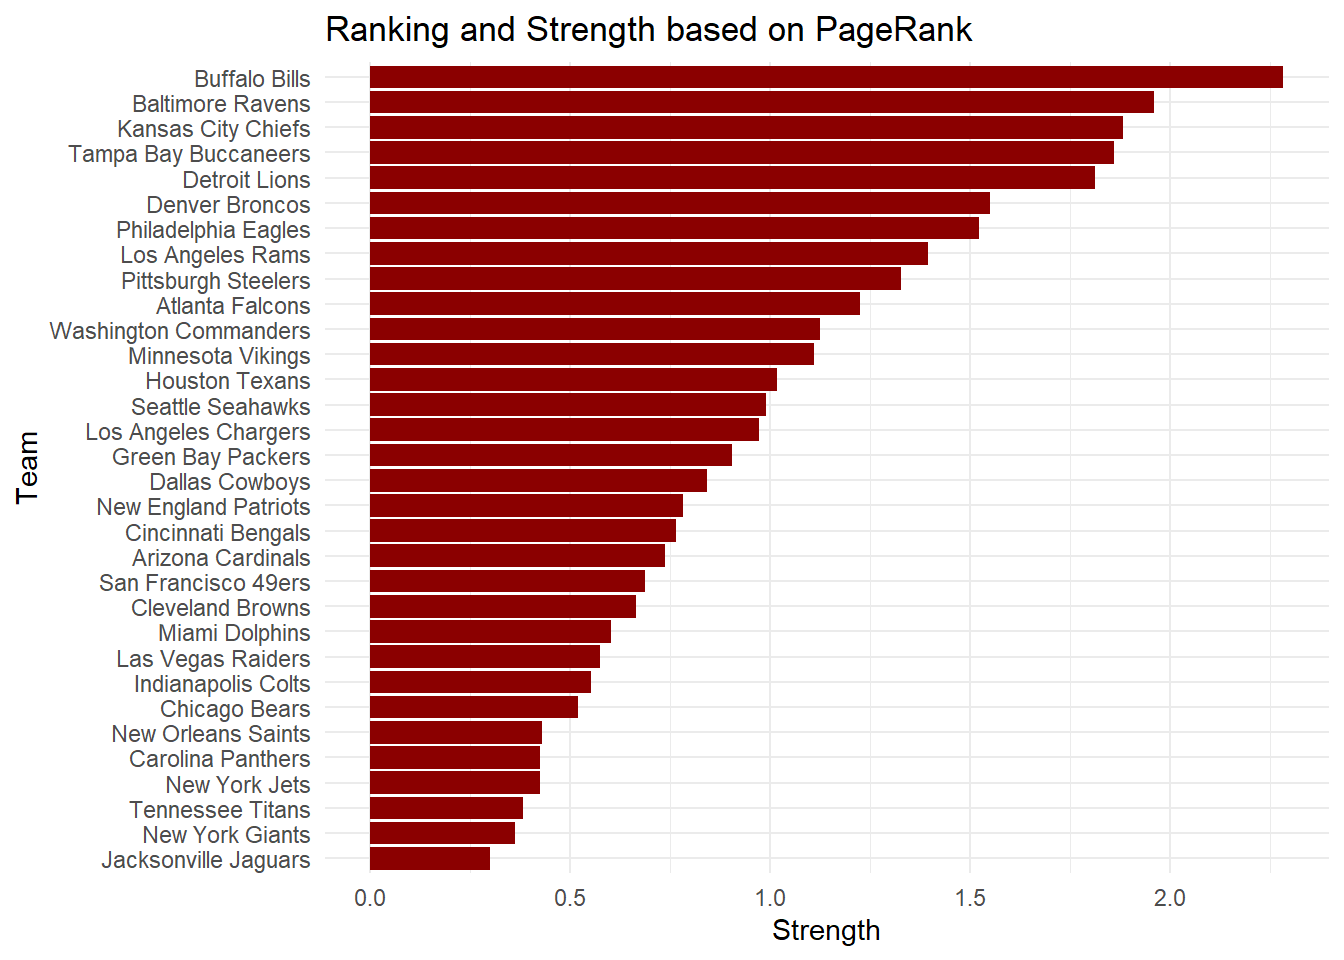
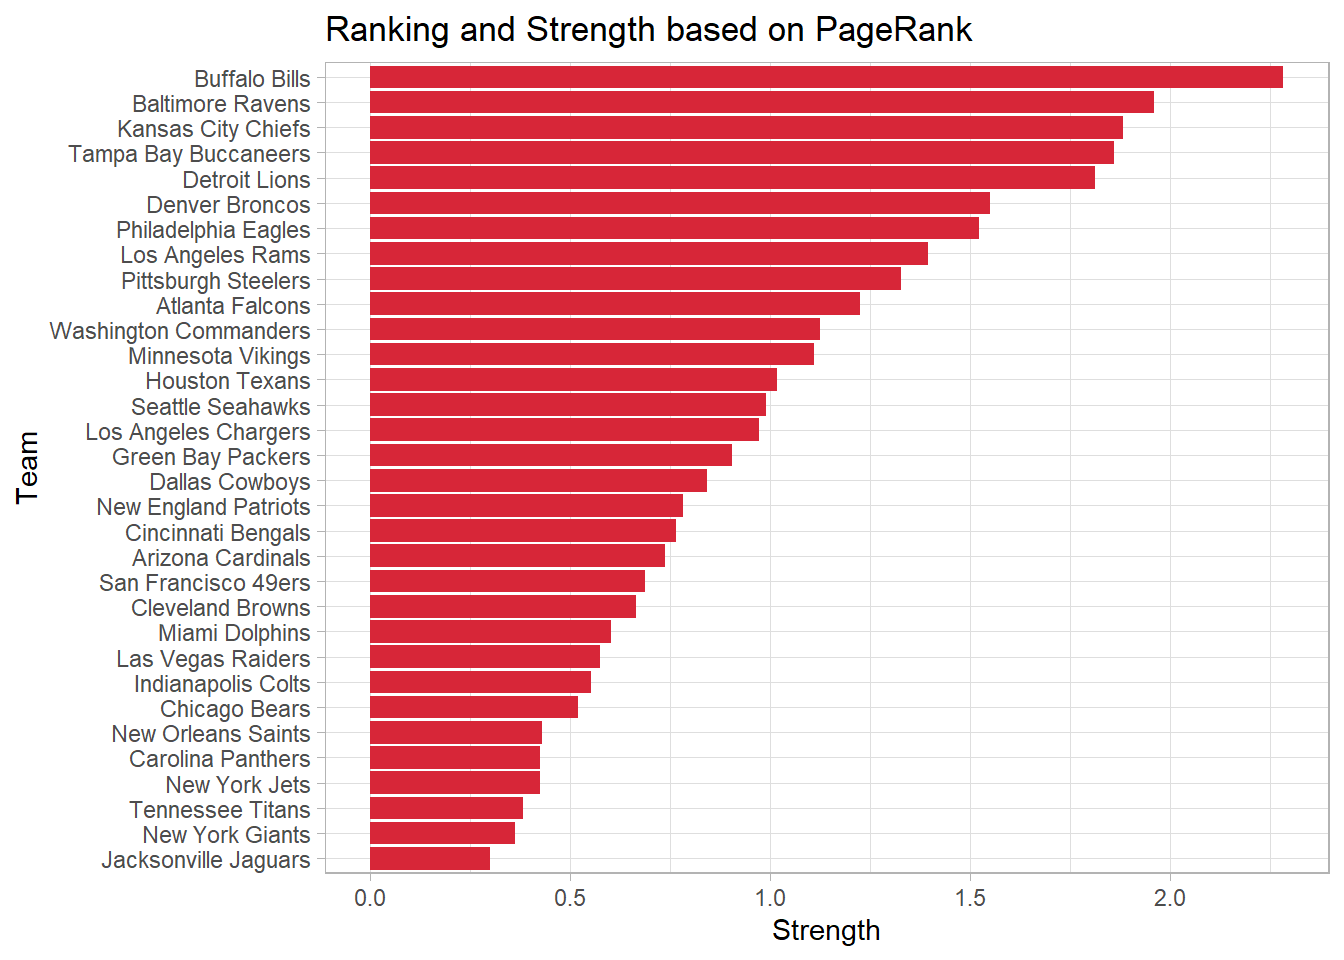
close to final ranking

Changed region(s): [[0.25, 0.0625, 0.9688, 0.9062]]

diff --git a/docs/blog/LearningToRank/LearningToRank.html b/docs/blog/LearningToRank/LearningToRank.html
@@ -215,9 +215,7 @@ window.Quarto = {
   <li><a href="#approach-1" id="toc-approach-1" class="nav-link" data-scroll-target="#approach-1">Approach</a></li>
   <li><a href="#implementation-1" id="toc-implementation-1" class="nav-link" data-scroll-target="#implementation-1">Implementation</a></li>
   </ul></li>
-  <li><a href="#wichtig-spaltennamen-in-dieser-pagerank_compare-tabelle-fixen" id="toc-wichtig-spaltennamen-in-dieser-pagerank_compare-tabelle-fixen" class="nav-link" data-scroll-target="#wichtig-spaltennamen-in-dieser-pagerank_compare-tabelle-fixen">WICHTIG: spaltennamen in dieser pagerank_compare tabelle fixen</a></li>
   <li><a href="#comparison" id="toc-comparison" class="nav-link" data-scroll-target="#comparison">Comparison</a></li>
-  <li><a href="#to-do" id="toc-to-do" class="nav-link" data-scroll-target="#to-do">TO DO</a></li>
   <li><a href="#conclusion" id="toc-conclusion" class="nav-link" data-scroll-target="#conclusion">Conclusion</a></li>
   </ul>
 </nav>
@@ -406,7 +404,7 @@ Carolina Panthers     Chicago Bears
 <span id="cb7-11"><a href="#cb7-11" aria-hidden="true" tabindex="-1"></a>  <span class="fu">labs</span>(<span class="at">title=</span><span class="st">"Ranking and Strength based on Bradley-Terry"</span>,</span>
 <span id="cb7-12"><a href="#cb7-12" aria-hidden="true" tabindex="-1"></a>       <span class="at">y=</span><span class="st">"Strength"</span>,</span>
 <span id="cb7-13"><a href="#cb7-13" aria-hidden="true" tabindex="-1"></a>       <span class="at">x=</span><span class="st">"Team"</span>) <span class="sc">+</span></span>
-<span id="cb7-14"><a href="#cb7-14" aria-hidden="true" tabindex="-1"></a>  <span class="fu">theme_minimal</span>()</span></code></pre></div><button title="Copy to Clipboard" class="code-copy-button"><i class="bi"></i></button></div>
+<span id="cb7-14"><a href="#cb7-14" aria-hidden="true" tabindex="-1"></a>  <span class="fu">theme_light</span>()</span></code></pre></div><button title="Copy to Clipboard" class="code-copy-button"><i class="bi"></i></button></div>
 </details>
 <div class="cell-output-display">
 <div>
@@ -494,7 +492,7 @@ Chicago Bears       0.4153262       -0.9715400       -0.9715400</code></pre>
 <p>PageRank does not treat all of the opponents of a given team equally. In fact, it accounts for both, the strength of the opponents as well as their total number of games lost. Opponents with higher strength get more weight, while opponents with a higher total number of games lost get a less weight.</p>
 <p>Based on this mechanism, the strength of team <span class="math inline">\(i\)</span> according to PageRank, <span class="math inline">\(p_i\)</span>, is recursively defined as: <span class="math display">\[ p_i = (1-d) + d \sum_{j=1}^n \left( \frac{w_{ij}}{c_j} \right) p_j \]</span> As before, <span class="math inline">\(w_{ij}\)</span> is the number of times team <span class="math inline">\(i\)</span> won against team <span class="math inline">\(j\)</span>. <span class="math inline">\(c_j = \sum_{i=1}^n w_{ij}\)</span> is the total numer of games lost by team <span class="math inline">\(j\)</span>. The term inside the sum works according to the above described mechanism: Wins against an opponent <span class="math inline">\(j\)</span> with high strength (i.e.&nbsp;high <span class="math inline">\(p_j\)</span>) get more weight, while wins against an opponent with a high number of total games lost (i.e.&nbsp;high <span class="math inline">\(c_j\)</span>) get less weight. This is then summed up across all opponents and weighted by the damping factor <span class="math inline">\(d \in [0,1)\)</span> (usually, <span class="math inline">\(d\)</span> is set to 0.85). <span class="math inline">\(d\)</span> guarantees the existence of (finite) soultions even if there is a team that always won or always lost.</p>
 <p>The above can be written in matrix-vector notation as follows: <span class="math display">\[ \textbf{p} = (1-d) \, \textbf{e} + d \, \textbf{W} \,\textbf{D}_c^{-1} \, \textbf{p} \]</span> where <span class="math inline">\(\textbf{p}=[p_1, \dots, p_n]^T\)</span> is the PageRank strength vector and <span class="math inline">\(\textbf{e}\)</span> is an <span class="math inline">\(n\)</span>-dimensional vector of ones. <span class="math inline">\(\textbf{D}=\text{diag}(c_1, \dots, c_n)\)</span> is a diagonal matrix and <span class="math inline">\(\textbf{W}\)</span> is the win matrix introduced above.</p>
-<p>To get a unique solution, PageRank requires the strength vector <span class="math inline">\(\textbf{p}\)</span> to sum up to <span class="math inline">\(n\)</span>, i.e.&nbsp;<span class="math inline">\(\textbf{e}^T \, \textbf{p} = n\)</span>. Using this, the following holds: <span class="math display">\[ \textbf{e} = \frac{\textbf{e} \, \textbf{e}^T \, \textbf{p}}{n}\]</span> Plugging this into the recursive formula for <span class="math inline">\(\textbf{p}\)</span> and factoring out <span class="math inline">\(\textbf{p}\)</span> on the right hand side yields: <span class="math display">\[ \begin{align}
+<p>To get a unique solution, PageRank requires a restriction on the scale of the strength vector. Therefore, the restriction that <span class="math inline">\(\textbf{p}\)</span> must to sum up to <span class="math inline">\(n\)</span>, i.e.&nbsp;<span class="math inline">\(\textbf{e}^T \, \textbf{p} = n\)</span>, is introduced. This is the same as saying that the average strength is 1. Using this, the following holds: <span class="math display">\[ \textbf{e} = \frac{\textbf{e} \, \textbf{e}^T \, \textbf{p}}{n}\]</span> Plugging this into the recursive formula for <span class="math inline">\(\textbf{p}\)</span> and factoring out <span class="math inline">\(\textbf{p}\)</span> on the right hand side yields: <span class="math display">\[ \begin{align}
 \textbf{p} &amp;= \left[ (1-d) \, \textbf{e} \, \textbf{e}^T/n + d \, \textbf{W} \,\textbf{D}_c^{-1} \right] \textbf{p} \\
 &amp;= \mathbf{A} \, \mathbf{p}
 \end{align}\]</span></p>
@@ -552,12 +550,12 @@ Chicago Bears     0.5206048</code></pre>
 <span id="cb17-4"><a href="#cb17-4" aria-hidden="true" tabindex="-1"></a>)</span>
 <span id="cb17-5"><a href="#cb17-5" aria-hidden="true" tabindex="-1"></a></span>
 <span id="cb17-6"><a href="#cb17-6" aria-hidden="true" tabindex="-1"></a><span class="fu">ggplot</span>(df, <span class="fu">aes</span>(<span class="fu">reorder</span>(team, score), <span class="at">y=</span>score)) <span class="sc">+</span></span>
-<span id="cb17-7"><a href="#cb17-7" aria-hidden="true" tabindex="-1"></a>  <span class="fu">geom_col</span>(<span class="at">fill=</span><span class="st">"#8b0000"</span>) <span class="sc">+</span></span>
+<span id="cb17-7"><a href="#cb17-7" aria-hidden="true" tabindex="-1"></a>  <span class="fu">geom_col</span>(<span class="at">fill=</span><span class="st">"#d72638"</span>) <span class="sc">+</span></span>
 <span id="cb17-8"><a href="#cb17-8" aria-hidden="true" tabindex="-1"></a>  <span class="fu">coord_flip</span>() <span class="sc">+</span></span>
 <span id="cb17-9"><a href="#cb17-9" aria-hidden="true" tabindex="-1"></a>  <span class="fu">labs</span>(<span class="at">title=</span><span class="st">"Ranking and Strength based on PageRank"</span>,</span>
 <span id="cb17-10"><a href="#cb17-10" aria-hidden="true" tabindex="-1"></a>       <span class="at">y=</span><span class="st">"Strength"</span>,</span>
 <span id="cb17-11"><a href="#cb17-11" aria-hidden="true" tabindex="-1"></a>       <span class="at">x=</span><span class="st">"Team"</span>) <span class="sc">+</span></span>
-<span id="cb17-12"><a href="#cb17-12" aria-hidden="true" tabindex="-1"></a>  <span class="fu">theme_minimal</span>()</span></code></pre></div><button title="Copy to Clipboard" class="code-copy-button"><i class="bi"></i></button></div>
+<span id="cb17-12"><a href="#cb17-12" aria-hidden="true" tabindex="-1"></a>  <span class="fu">theme_light</span>()</span></code></pre></div><button title="Copy to Clipboard" class="code-copy-button"><i class="bi"></i></button></div>
 </details>
 <div class="cell-output-display">
 <div>
@@ -588,28 +586,112 @@ Carolina Panthers 0.4254393           0.01329498 32
 Chicago Bears     0.5206048           0.01626890 32</code></pre>
 </div>
 </div>
+<p>Obviously, my values and the values returned by the <strong>igraph</strong> package are not the same. However, when dividing them by each other it becomes apparent that my values are just 32 times the values returned by the package. The reason for the difference in scale is the following: The <strong>igraph</strong> package uses as restriction on the strength vector that it sums up to 1. However, I use as restriction that the strength vector sums up to <span class="math inline">\(n=32\)</span>. Importantly, this difference in scaling has no influence on the rankings.</p>
 </section>
-</section>
-<section id="wichtig-spaltennamen-in-dieser-pagerank_compare-tabelle-fixen" class="level1">
-<h1>WICHTIG: spaltennamen in dieser pagerank_compare tabelle fixen</h1>
-<p>WICHTIG: bei meiner Implementation wollen wir einen AVERAGE pagerank value of 1 also SUM UP to n; in PACKAGE WOLLEN SIE SUM UP to 1; also müssen wir meine werte mit 1/n multiplizieren oder die anderen mit n.</p>
 </section>
 <section id="comparison" class="level1">
 <h1>Comparison</h1>
-<p>pagerank gleichmäßiger verteilt; BTM exponential dispersed beide in gleiche horizontal barplot</p>
-<p>evtl scatter plots beider ratings und rankings: plot(log(bt_mle), pagerank)</p>
-<ol start="2" type="1">
-<li>plots zum vergleich der beiden rankings (u.a. plot(log(bt_mle), r))</li>
-</ol>
-</section>
-<section id="to-do" class="level1">
-<h1>TO DO</h1>
-<ol type="1">
-<li>2mal metric für vergleich meine lösung vs.&nbsp;package</li>
-</ol>
+<p>Having in detail covered each of the two approaches separately, let’s now compare their results.</p>
+<div class="cell">
+<details class="code-fold">
+<summary>Show code</summary>
+<div class="code-copy-outer-scaffold"><div class="sourceCode cell-code" id="cb20"><pre class="sourceCode r code-with-copy"><code class="sourceCode r"><span id="cb20-1"><a href="#cb20-1" aria-hidden="true" tabindex="-1"></a>df <span class="ot">&lt;-</span> <span class="fu">data.frame</span>(</span>
+<span id="cb20-2"><a href="#cb20-2" aria-hidden="true" tabindex="-1"></a>  <span class="at">team =</span> <span class="fu">names</span>(my_btm_mles),</span>
+<span id="cb20-3"><a href="#cb20-3" aria-hidden="true" tabindex="-1"></a>  <span class="at">btm =</span> <span class="fu">as.numeric</span>(my_btm_mles),</span>
+<span id="cb20-4"><a href="#cb20-4" aria-hidden="true" tabindex="-1"></a>  <span class="at">pagerank =</span> <span class="fu">as.numeric</span>(my_pagerank_est)</span>
+<span id="cb20-5"><a href="#cb20-5" aria-hidden="true" tabindex="-1"></a>)</span>
+<span id="cb20-6"><a href="#cb20-6" aria-hidden="true" tabindex="-1"></a></span>
+<span id="cb20-7"><a href="#cb20-7" aria-hidden="true" tabindex="-1"></a>df<span class="sc">$</span>team <span class="ot">&lt;-</span> <span class="fu">factor</span>(df<span class="sc">$</span>team, <span class="at">levels=</span>df<span class="sc">$</span>team[<span class="fu">order</span>(df<span class="sc">$</span>btm, <span class="at">decreasing=</span><span class="cn">FALSE</span>)])</span>
+<span id="cb20-8"><a href="#cb20-8" aria-hidden="true" tabindex="-1"></a></span>
+<span id="cb20-9"><a href="#cb20-9" aria-hidden="true" tabindex="-1"></a></span>
+<span id="cb20-10"><a href="#cb20-10" aria-hidden="true" tabindex="-1"></a>df_long <span class="ot">&lt;-</span> <span class="fu">reshape</span>(df,</span>
+<span id="cb20-11"><a href="#cb20-11" aria-hidden="true" tabindex="-1"></a>                   <span class="at">varying =</span> <span class="fu">list</span>(<span class="fu">c</span>(<span class="st">"btm"</span>, <span class="st">"pagerank"</span>)),</span>
+<span id="cb20-12"><a href="#cb20-12" aria-hidden="true" tabindex="-1"></a>                   <span class="at">v.names =</span> <span class="st">"score"</span>,</span>
+<span id="cb20-13"><a href="#cb20-13" aria-hidden="true" tabindex="-1"></a>                   <span class="at">timevar =</span> <span class="st">"scoretype"</span>,</span>
+<span id="cb20-14"><a href="#cb20-14" aria-hidden="true" tabindex="-1"></a>                   <span class="at">times =</span> <span class="fu">c</span>(<span class="st">"btm"</span>, <span class="st">"pagerank"</span>),</span>
+<span id="cb20-15"><a href="#cb20-15" aria-hidden="true" tabindex="-1"></a>                   <span class="at">direction =</span> <span class="st">"long"</span>)</span>
+<span id="cb20-16"><a href="#cb20-16" aria-hidden="true" tabindex="-1"></a></span>
+<span id="cb20-17"><a href="#cb20-17" aria-hidden="true" tabindex="-1"></a>df_long<span class="sc">$</span>team <span class="ot">&lt;-</span> <span class="fu">factor</span>(df_long<span class="sc">$</span>team, <span class="at">levels=</span><span class="fu">levels</span>(df<span class="sc">$</span>team))</span>
+<span id="cb20-18"><a href="#cb20-18" aria-hidden="true" tabindex="-1"></a></span>
+<span id="cb20-19"><a href="#cb20-19" aria-hidden="true" tabindex="-1"></a><span class="fu">ggplot</span>(df_long, <span class="fu">aes</span>(<span class="at">x=</span>team, <span class="at">y=</span>score, <span class="at">fill=</span>scoretype)) <span class="sc">+</span></span>
+<span id="cb20-20"><a href="#cb20-20" aria-hidden="true" tabindex="-1"></a>  <span class="fu">geom_bar</span>(<span class="at">stat=</span><span class="st">"identity"</span>, <span class="at">position=</span><span class="fu">position_dodge</span>(<span class="at">width =</span> <span class="fl">0.7</span>)) <span class="sc">+</span></span>
+<span id="cb20-21"><a href="#cb20-21" aria-hidden="true" tabindex="-1"></a>  <span class="fu">scale_fill_manual</span>(<span class="at">values=</span><span class="fu">c</span>(<span class="st">"btm"</span><span class="ot">=</span><span class="st">"#0b0b64"</span>, <span class="st">"pagerank"</span><span class="ot">=</span><span class="st">"#d72638"</span>),</span>
+<span id="cb20-22"><a href="#cb20-22" aria-hidden="true" tabindex="-1"></a>                    <span class="at">labels=</span><span class="fu">c</span>(<span class="st">"btm"</span><span class="ot">=</span><span class="st">"Bradley-Terry"</span>, <span class="st">"pagerank"</span><span class="ot">=</span><span class="st">"PageRank"</span>),</span>
+<span id="cb20-23"><a href="#cb20-23" aria-hidden="true" tabindex="-1"></a>                    <span class="at">name=</span><span class="st">"Approach"</span>) <span class="sc">+</span></span>
+<span id="cb20-24"><a href="#cb20-24" aria-hidden="true" tabindex="-1"></a>  <span class="fu">coord_flip</span>() <span class="sc">+</span></span>
+<span id="cb20-25"><a href="#cb20-25" aria-hidden="true" tabindex="-1"></a>  <span class="fu">labs</span>(<span class="at">title=</span><span class="st">"Strengths based on Bradley-Terry and PageRank"</span>,</span>
+<span id="cb20-26"><a href="#cb20-26" aria-hidden="true" tabindex="-1"></a>       <span class="at">y=</span><span class="st">"Strength"</span>,</span>
+<span id="cb20-27"><a href="#cb20-27" aria-hidden="true" tabindex="-1"></a>       <span class="at">x=</span><span class="st">"Team"</span>) <span class="sc">+</span></span>
+<span id="cb20-28"><a href="#cb20-28" aria-hidden="true" tabindex="-1"></a>  <span class="fu">theme_light</span>()</span></code></pre></div><button title="Copy to Clipboard" class="code-copy-button"><i class="bi"></i></button></div>
+</details>
+<div class="cell-output-display">
+<div>
+<figure class="figure">
+<p><img src="LearningToRank_files/figure-html/unnamed-chunk-13-1.png" class="img-fluid figure-img" width="672"></p>
+</figure>
+</div>
+</div>
+</div>
+<p>When looking at the above plot, two aspects are particularly striking. First, there is alot more dispersion among the Bradley-Terry strengths than among the PageRank strengths. Second, it seems that the ranking obtained from PageRank is not identical to the one returned by the Bradley-Terry model (Obviously, when the teams are sorted in descending order based on their Bradley-Terry strengths (as in the above plot) they are not at the same time also sorted in descending order based on the PageRank strengths).</p>
+<div class="cell">
+<details class="code-fold">
+<summary>Show code</summary>
+<div class="code-copy-outer-scaffold"><div class="sourceCode cell-code" id="cb21"><pre class="sourceCode r code-with-copy"><code class="sourceCode r"><span id="cb21-1"><a href="#cb21-1" aria-hidden="true" tabindex="-1"></a>p1 <span class="ot">&lt;-</span> <span class="fu">ggplot</span>(df, <span class="fu">aes</span>(<span class="at">x=</span>my_btm_mles, <span class="at">y=</span>my_pagerank_est)) <span class="sc">+</span></span>
+<span id="cb21-2"><a href="#cb21-2" aria-hidden="true" tabindex="-1"></a>  <span class="fu">geom_point</span>() <span class="sc">+</span></span>
+<span id="cb21-3"><a href="#cb21-3" aria-hidden="true" tabindex="-1"></a>  <span class="fu">coord_equal</span>() <span class="sc">+</span></span>
+<span id="cb21-4"><a href="#cb21-4" aria-hidden="true" tabindex="-1"></a>  <span class="fu">labs</span>(<span class="at">y=</span><span class="st">"PageRank Strength"</span>,</span>
+<span id="cb21-5"><a href="#cb21-5" aria-hidden="true" tabindex="-1"></a>       <span class="at">x=</span><span class="st">"Bradley-Terry Strength"</span>) <span class="sc">+</span></span>
+<span id="cb21-6"><a href="#cb21-6" aria-hidden="true" tabindex="-1"></a>  <span class="fu">theme_light</span>() <span class="sc">+</span></span>
+<span id="cb21-7"><a href="#cb21-7" aria-hidden="true" tabindex="-1"></a>  <span class="fu">theme</span>(<span class="at">aspect.ratio =</span> <span class="dv">1</span>)</span>
+<span id="cb21-8"><a href="#cb21-8" aria-hidden="true" tabindex="-1"></a></span>
+<span id="cb21-9"><a href="#cb21-9" aria-hidden="true" tabindex="-1"></a>p2 <span class="ot">&lt;-</span> <span class="fu">ggplot</span>(df, <span class="fu">aes</span>(<span class="at">x=</span><span class="fu">log</span>(my_btm_mles), <span class="at">y=</span>my_pagerank_est)) <span class="sc">+</span></span>
+<span id="cb21-10"><a href="#cb21-10" aria-hidden="true" tabindex="-1"></a>  <span class="fu">geom_point</span>() <span class="sc">+</span></span>
+<span id="cb21-11"><a href="#cb21-11" aria-hidden="true" tabindex="-1"></a>  <span class="fu">coord_equal</span>() <span class="sc">+</span></span>
+<span id="cb21-12"><a href="#cb21-12" aria-hidden="true" tabindex="-1"></a>  <span class="fu">labs</span>(<span class="at">y=</span><span class="st">"PageRank Strength"</span>,</span>
+<span id="cb21-13"><a href="#cb21-13" aria-hidden="true" tabindex="-1"></a>       <span class="at">x=</span><span class="st">"log(Bradley-Terry Strength)"</span>) <span class="sc">+</span></span>
+<span id="cb21-14"><a href="#cb21-14" aria-hidden="true" tabindex="-1"></a>  <span class="fu">theme_light</span>() <span class="sc">+</span></span>
+<span id="cb21-15"><a href="#cb21-15" aria-hidden="true" tabindex="-1"></a>  <span class="fu">theme</span>(<span class="at">aspect.ratio =</span> <span class="dv">1</span>)</span>
+<span id="cb21-16"><a href="#cb21-16" aria-hidden="true" tabindex="-1"></a></span>
+<span id="cb21-17"><a href="#cb21-17" aria-hidden="true" tabindex="-1"></a>gridExtra<span class="sc">::</span><span class="fu">grid.arrange</span>(p1, p2, <span class="at">ncol=</span><span class="dv">2</span>,</span>
+<span id="cb21-18"><a href="#cb21-18" aria-hidden="true" tabindex="-1"></a>                        <span class="at">top=</span><span class="st">"Strengths based on Bradley-Terry and PageRank"</span>)</span></code></pre></div><button title="Copy to Clipboard" class="code-copy-button"><i class="bi"></i></button></div>
+</details>
+<div class="cell-output-display">
+<div>
+<figure class="figure">
+<p><img src="LearningToRank_files/figure-html/unnamed-chunk-14-1.png" class="img-fluid figure-img" width="672"></p>
+</figure>
+</div>
+</div>
+</div>
+<p>Above, on the left, you can see a scatterplot of the PageRank strengths against the Bradley-Terry strengths. From that plot, it seems that there is rather a logarithmic relationship between the two. Therefore, on the right, I also show a plot of the PageRank strengths against <strong>log</strong> of the Bradley-Terry strengths. It seems that both approaches assign high strengths (and low strengths, respectively) to similar teams. However, there seems to be less agreement of both approaches on strong teams than on weak teams. This becomes also apparent form the following plot.</p>
+<div class="cell">
+<details class="code-fold">
+<summary>Show code</summary>
+<div class="code-copy-outer-scaffold"><div class="sourceCode cell-code" id="cb22"><pre class="sourceCode r code-with-copy"><code class="sourceCode r"><span id="cb22-1"><a href="#cb22-1" aria-hidden="true" tabindex="-1"></a><span class="fu">ggplot</span>(df, <span class="fu">aes</span>(<span class="at">x=</span><span class="fu">rank</span>(<span class="sc">-</span>my_btm_mles), <span class="at">y=</span><span class="fu">rank</span>(<span class="sc">-</span>my_pagerank_est))) <span class="sc">+</span></span>
+<span id="cb22-2"><a href="#cb22-2" aria-hidden="true" tabindex="-1"></a>  <span class="fu">geom_point</span>() <span class="sc">+</span></span>
+<span id="cb22-3"><a href="#cb22-3" aria-hidden="true" tabindex="-1"></a>  <span class="fu">geom_line</span>() <span class="sc">+</span></span>
+<span id="cb22-4"><a href="#cb22-4" aria-hidden="true" tabindex="-1"></a>  <span class="fu">geom_abline</span>(<span class="at">linetype=</span><span class="st">"dashed"</span>) <span class="sc">+</span></span>
+<span id="cb22-5"><a href="#cb22-5" aria-hidden="true" tabindex="-1"></a>  <span class="fu">scale_x_reverse</span>(<span class="at">breaks=</span><span class="fu">c</span>(<span class="dv">1</span>,<span class="dv">4</span><span class="sc">*</span>(<span class="dv">1</span><span class="sc">:</span><span class="dv">8</span>)), <span class="at">minor_breaks=</span><span class="dv">1</span><span class="sc">:</span><span class="dv">32</span>) <span class="sc">+</span></span>
+<span id="cb22-6"><a href="#cb22-6" aria-hidden="true" tabindex="-1"></a>  <span class="fu">scale_y_reverse</span>(<span class="at">breaks=</span><span class="fu">c</span>(<span class="dv">1</span>,<span class="dv">4</span><span class="sc">*</span>(<span class="dv">1</span><span class="sc">:</span><span class="dv">8</span>)), <span class="at">minor_breaks=</span><span class="dv">1</span><span class="sc">:</span><span class="dv">32</span>) <span class="sc">+</span></span>
+<span id="cb22-7"><a href="#cb22-7" aria-hidden="true" tabindex="-1"></a>  <span class="fu">coord_equal</span>() <span class="sc">+</span></span>
+<span id="cb22-8"><a href="#cb22-8" aria-hidden="true" tabindex="-1"></a>  <span class="fu">labs</span>(<span class="at">title=</span><span class="st">"Ranks based on Bradley-Terry and PageRank"</span>,</span>
+<span id="cb22-9"><a href="#cb22-9" aria-hidden="true" tabindex="-1"></a>       <span class="at">x=</span><span class="st">"Bradley-Terry Ranks"</span>,</span>
+<span id="cb22-10"><a href="#cb22-10" aria-hidden="true" tabindex="-1"></a>       <span class="at">y=</span><span class="st">"PageRank Ranks"</span>) <span class="sc">+</span></span>
+<span id="cb22-11"><a href="#cb22-11" aria-hidden="true" tabindex="-1"></a>  <span class="fu">theme_light</span>()</span></code></pre></div><button title="Copy to Clipboard" class="code-copy-button"><i class="bi"></i></button></div>
+</details>
+<div class="cell-output-display">
+<div>
+<figure class="figure">
+<p><img src="LearningToRank_files/figure-html/unnamed-chunk-15-1.png" class="img-fluid figure-img" width="672"></p>
+</figure>
+</div>
+</div>
+</div>
+<p>The above plot compares the <strong>rankings</strong> derived from the strength estimates of PageRank and the Bradley-Terry model. If both approaches would result in identical rankings, then the solid line would perfectly lie on the dashed line. The further the solid line is away from the dashed line, the greater the difference between the two rankings. This plot supports the observations stated above.</p>
 </section>
 <section id="conclusion" class="level1">
 <h1>Conclusion</h1>
+<p>Overall, PageRank and the Bradle-Terry model yield quite similar rankings of the 32 NFL teams. However, if I had to choose one of them I would pick the Bradley-Terry model. This is because, unlike PageRank, the Bradley-Terry model not only returns a ranking, but it also allows to make predictions on the probability that a certain team would win against a given opponent.</p>
 
 
 </section>

diff --git a/docs/blog/index.html b/docs/blog/index.html
@@ -265,7 +265,7 @@ Idea für eine Data Viz Post: - map plot: nutzung von libraries; vermeintliche e
 </a>
 </div>
 </div>
-<div class="quarto-post image-right" data-index="2" data-categories="UmFua2luZyUyQ09wdGltaXphdGlvbiUyQ01heGltdW0lMjBMaWtlbGlob29k" data-listing-date-sort="1621634400000" data-listing-file-modified-sort="1760386586685" data-listing-date-modified-sort="NaN" data-listing-reading-time-sort="12" data-listing-word-count-sort="2202">
+<div class="quarto-post image-right" data-index="2" data-categories="UmFua2luZyUyQ09wdGltaXphdGlvbiUyQ01heGltdW0lMjBMaWtlbGlob29k" data-listing-date-sort="1621634400000" data-listing-file-modified-sort="1760469758951" data-listing-date-modified-sort="NaN" data-listing-reading-time-sort="15" data-listing-word-count-sort="2914">
 <div class="thumbnail"><a href="../blog/LearningToRank/LearningToRank.html" class="no-external">
 
 <img loading="lazy" src="../blog/LearningToRank/cover.jpg" class="thumbnail-image">
